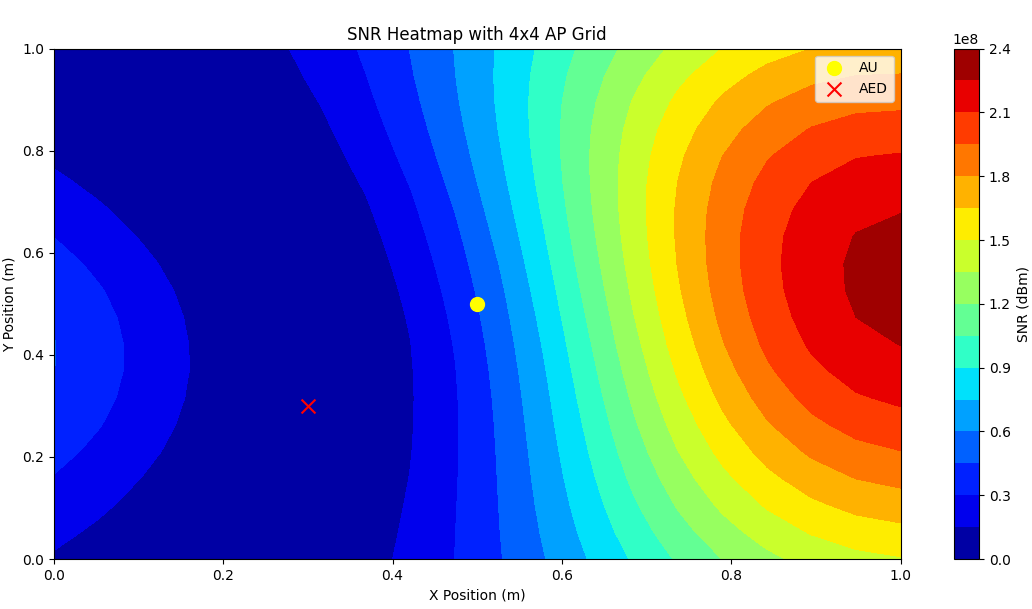
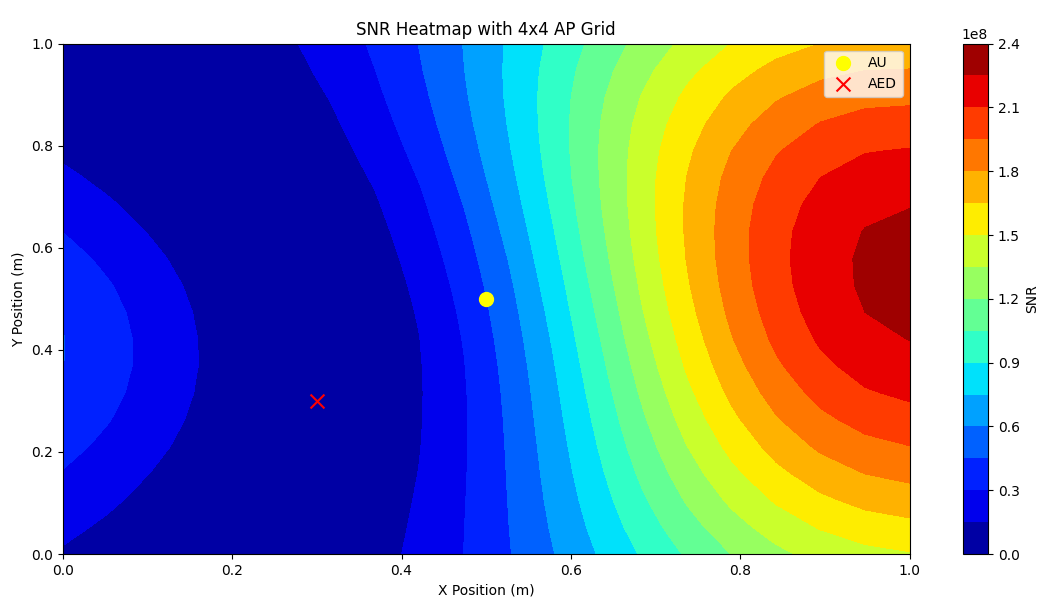
:bug: correct SNR units

diff --git a/code/oneAU_oneAED.py b/code/oneAU_oneAED.py
@@ -12,7 +12,7 @@ eta = 1  # Current-to-light conversion efficiency (W/A)
 R = 1  # Photodetector responsivity (A/W)
 T = 1  # Transimpedance gain (V/A)
 A_PD = 1  # Photodiode physical area (m^2)
-sigma2 = math.pow(10, -9.833) # Noise power (dBm)
+sigma2 = math.pow(10, -9.833) # Noise power
 
 def channel_gain(tx, rx):
     """Compute Lambertian line-of-sight channel gain."""
@@ -73,7 +73,7 @@ def plot_snr(N, AP_positions, w, AU_position, AED_position):
 
     plt.figure(figsize=(5, 5))
     plt.contourf(X, Y, snr_grid.T, levels=20, cmap='jet')
-    plt.colorbar(label="SNR (dBm)")
+    plt.colorbar(label="SNR")
     
     # Plot only UE and AED positions
     plt.scatter(*AU_position[:2], color='yellow', marker='o', label="AU", s=100)
